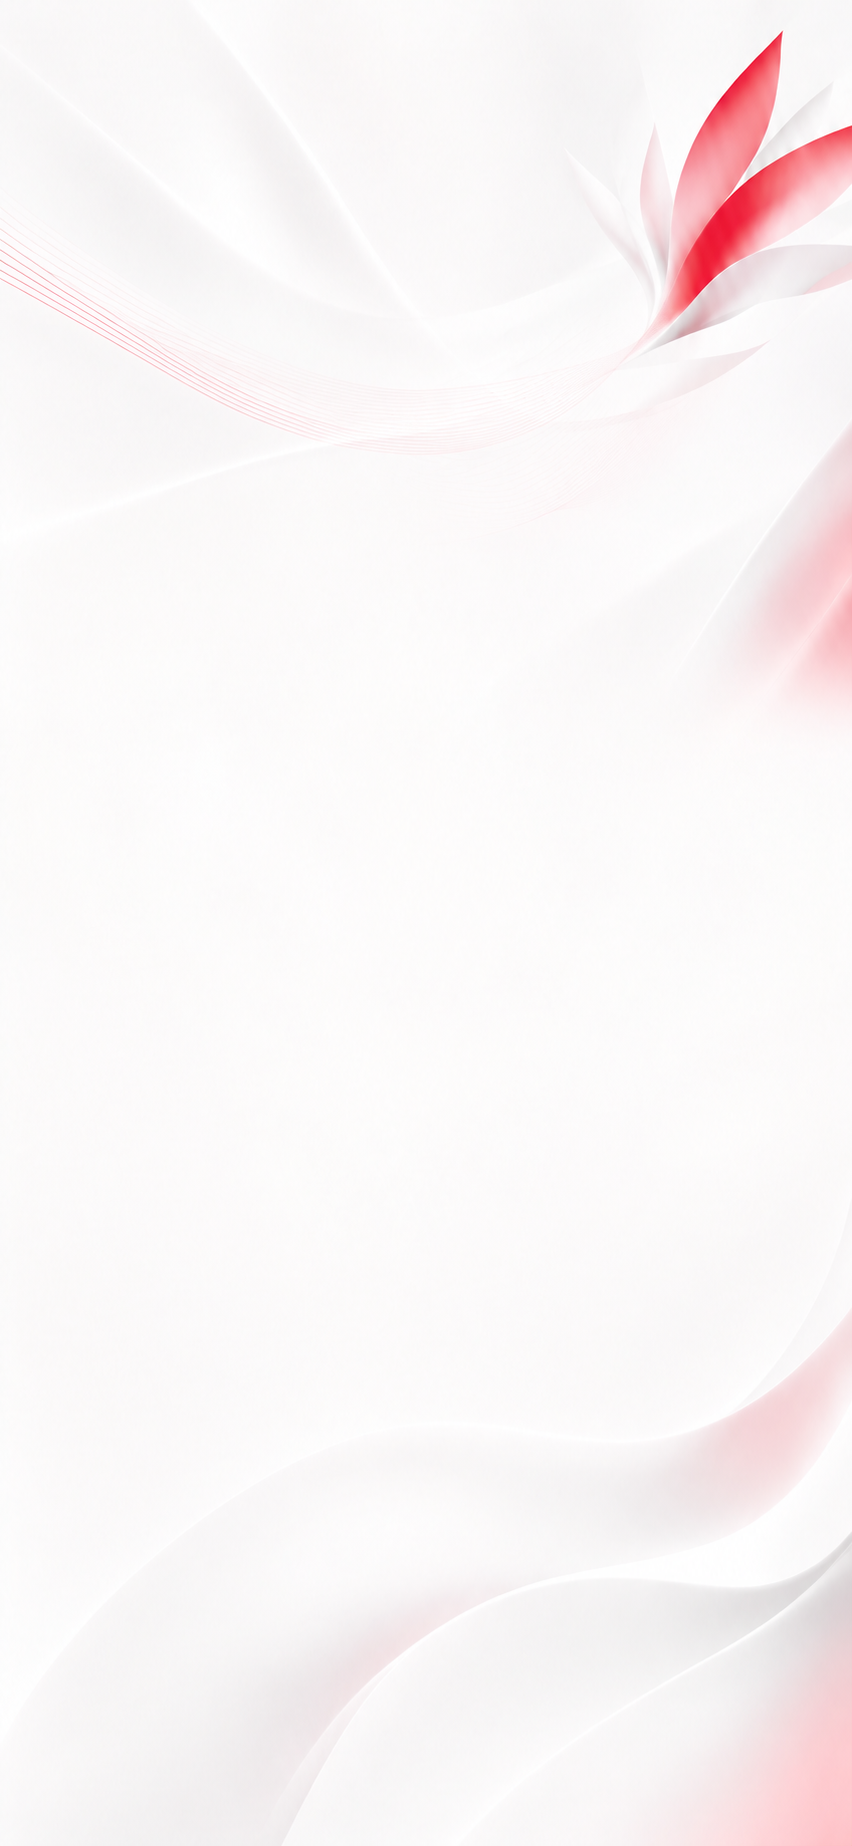
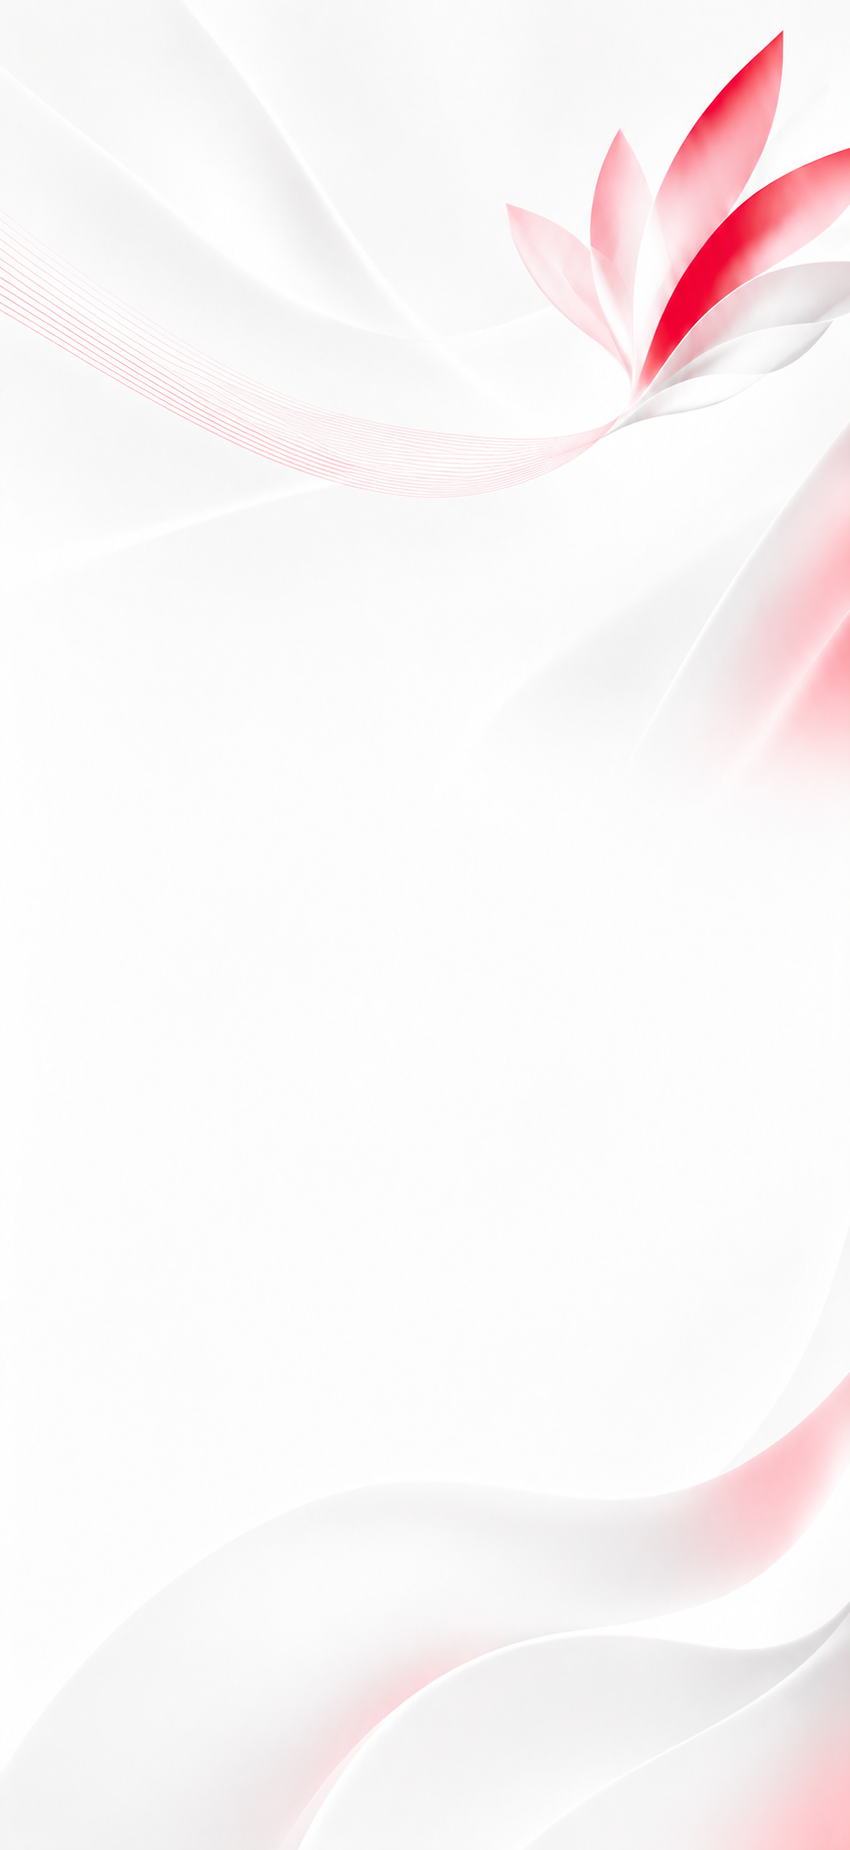
랭킹 디테일 2

diff --git a/src/pages/Leaderboard/ArenaMockPage.jsx b/src/pages/Leaderboard/ArenaMockPage.jsx
@@ -221,26 +221,37 @@ function MyRankCard() {
 
 function TopRankCard({ row }) {
   const isFirst = row.rank === 1;
+  const isThird = row.rank === 3;
   const toneClass = isFirst
     ? 'border-[#FFB51F]/55 bg-[radial-gradient(circle_at_50%_0%,rgba(255,199,43,0.36)_0%,rgba(255,237,176,0.30)_42%,rgba(255,255,255,0.68)_82%)] shadow-[0_18px_38px_rgba(255,181,31,0.18)]'
     : row.rank === 2
       ? 'border-[#C9CED6]/70 bg-[radial-gradient(circle_at_50%_0%,rgba(174,183,192,0.28)_0%,rgba(255,255,255,0.62)_72%)] shadow-[0_14px_30px_rgba(100,116,139,0.12)]'
       : 'border-[#D08A52]/50 bg-[radial-gradient(circle_at_50%_0%,rgba(208,138,82,0.24)_0%,rgba(255,248,243,0.72)_62%,rgba(255,255,255,0.62)_100%)] shadow-[0_14px_30px_rgba(173,103,40,0.12)]';
+  const heightClass = isFirst
+    ? 'md:-mt-10 md:h-[440px]'
+    : isThird
+      ? 'md:h-[350px]'
+      : 'md:h-[380px]';
+  const paddingClass = isThird ? 'px-8 pb-5 pt-10' : 'px-8 pb-7 pt-12';
+  const avatarClass = isFirst ? 'mt-4' : isThird ? 'mt-1 md:h-[104px] md:w-[104px]' : 'mt-2';
+  const titleSpacingClass = isThird ? 'mt-5' : 'mt-6';
 
   return (
     <article
-      className={`relative flex min-h-[330px] flex-col items-center overflow-hidden rounded-[30px] border px-8 pb-7 pt-12 backdrop-blur-xl ${toneClass} ${isFirst ? 'md:-mt-10 md:min-h-[420px]' : 'md:mt-0'}`}
+      className={`relative flex min-h-[320px] flex-col items-center overflow-hidden rounded-[30px] border backdrop-blur-xl ${paddingClass} ${toneClass} ${heightClass}`}
     >
       <RankMedal rank={row.rank} />
-      <Avatar image={row.image} rank={row.rank} size="lg" className={isFirst ? 'mt-4' : 'mt-2'} />
-      <h2 className="mt-6 max-w-full truncate text-center text-[20px] font-900 text-[#111827]">
+      <Avatar image={row.image} rank={row.rank} size="lg" className={avatarClass} />
+      <h2
+        className={`${titleSpacingClass} max-w-full  text-center text-[20px] font-900 text-[#111827]`}
+      >
         {row.name}
       </h2>
       <p className={`mt-1 text-[30px] font-900 ${isFirst ? 'text-[#F52F45]' : 'text-[#111827]'}`}>
         {formatNumber(row.score)}점
       </p>
-      <div className="mt-5 h-px w-full bg-white/70" />
-      <div className="mt-5 grid w-full grid-cols-2 divide-x divide-[#D7DDE6]">
+      <div className={`${isFirst ? 'mt-4' : 'mt-2'}  h-px w-full bg-white/70`} />
+      <div className={`mt-2 grid w-full grid-cols-2 divide-x divide-[#D7DDE6]`}>
         <StatPair value={`${row.challenges}개`} label="성공 챌린지" />
         <StatPair value={formatNumber(row.tokens)} label="최소 토큰" />
       </div>
@@ -331,7 +342,7 @@ export default function Leaderboard() {
       }}
     >
       <div className="mx-auto w-full max-w-[1200px] px-5 sm:px-8 lg:px-0">
-        <header className="mb-9 text-center">
+        <header className="mb-20 text-center">
           <h1 className="text-[42px] font-900 leading-tight text-[#111827]">2026 시즌 1 랭킹</h1>
           <p className="mt-4 text-[16px]  font-600 text-[#4B5563]">
             이번 시즌 최고의 도전자들을 확인해 보세요.
